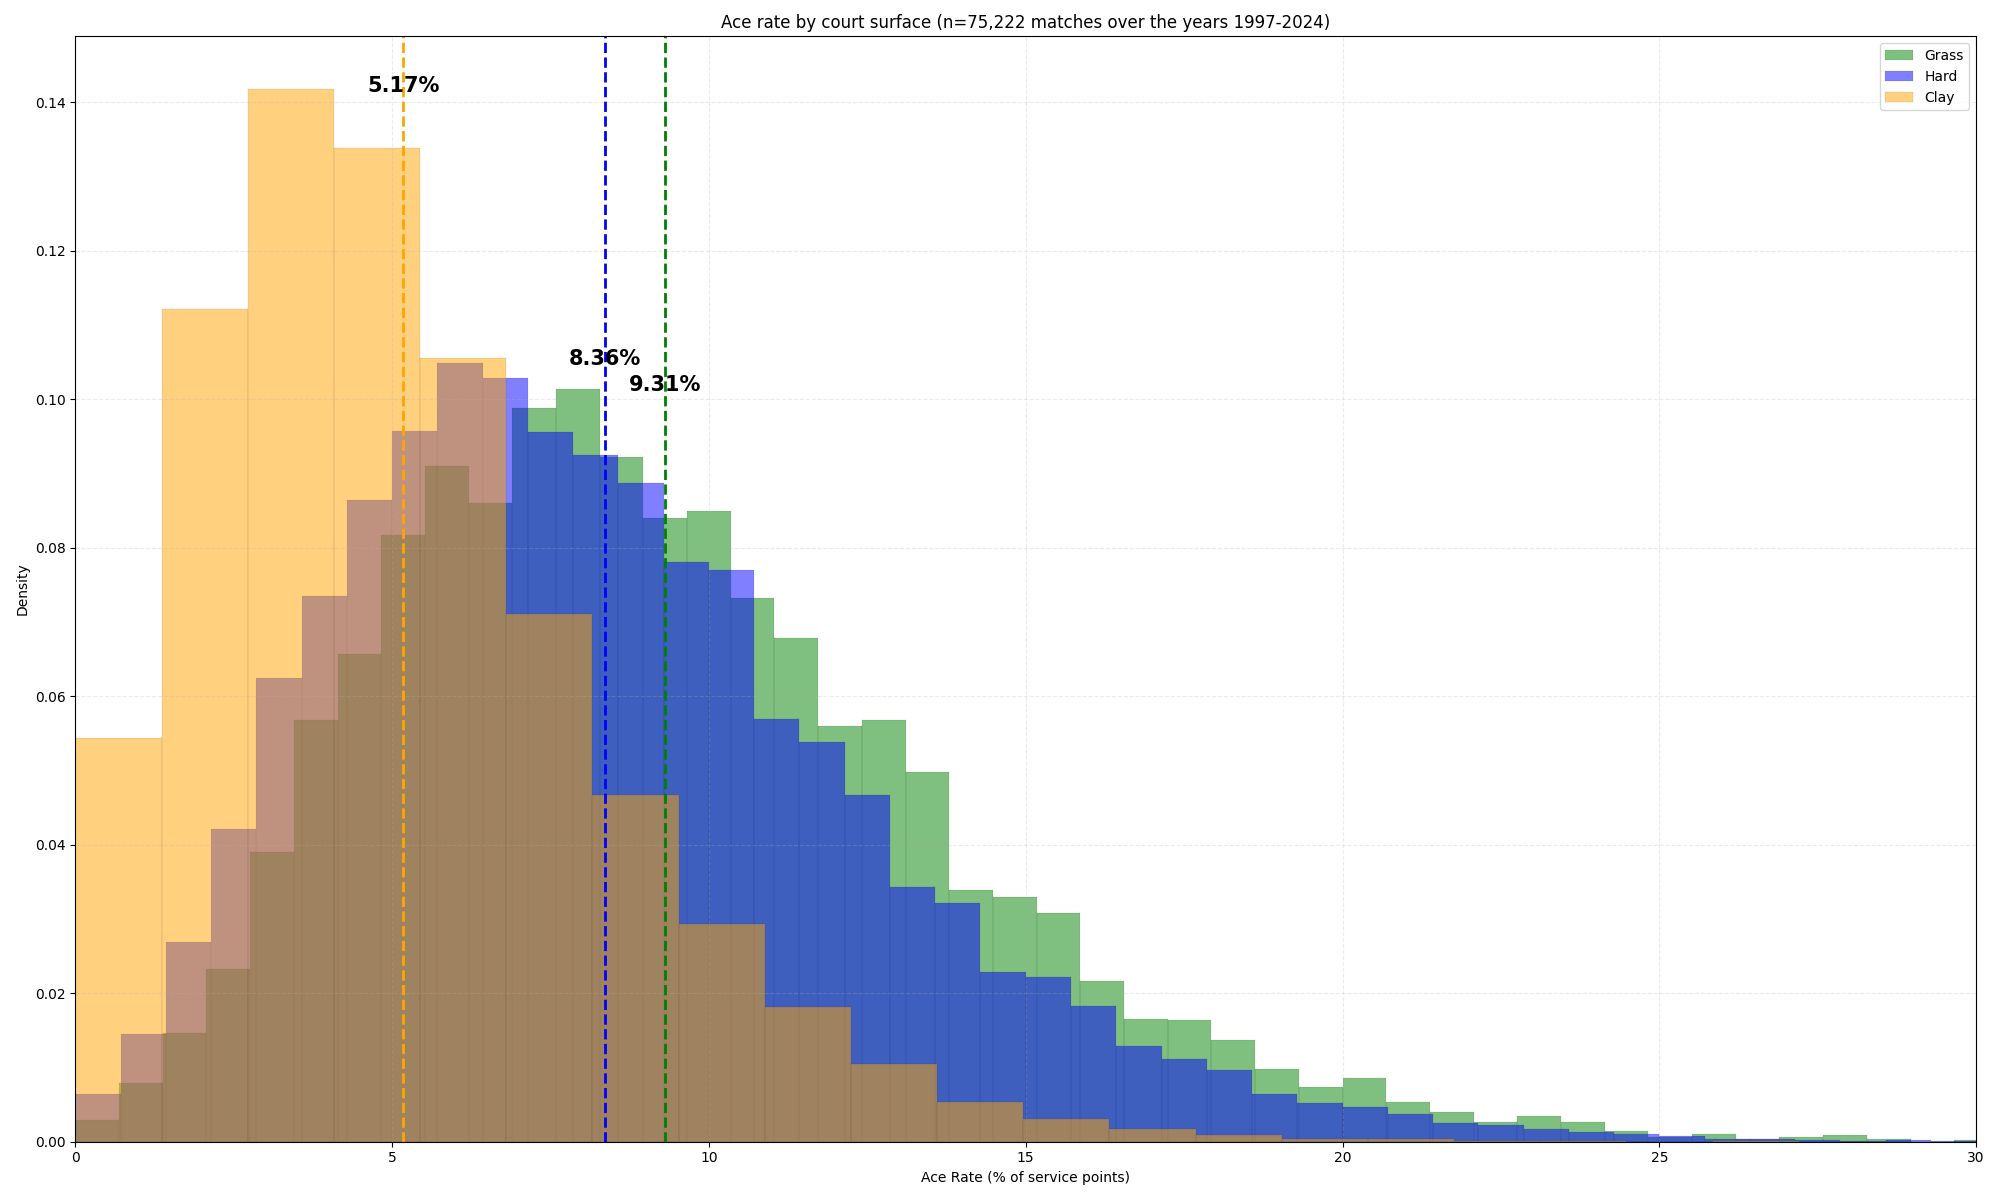
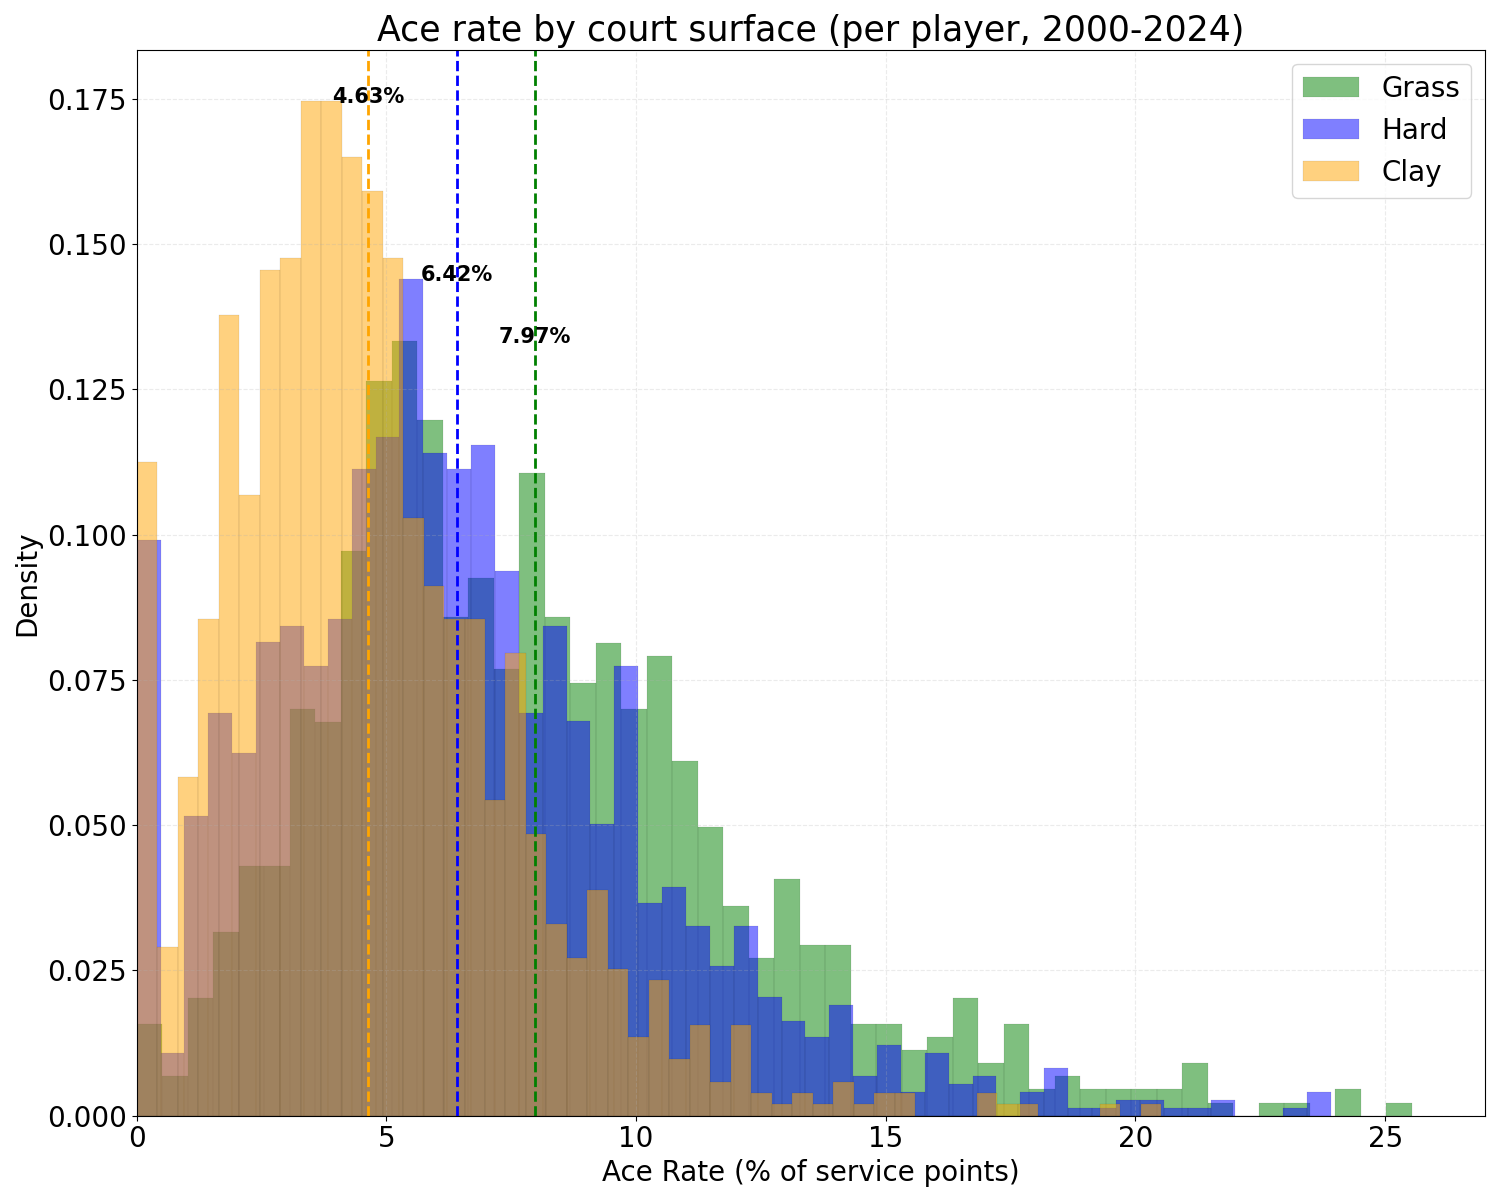
overhauled surface_acerates_analyis rather than match level, summed each players aces and then calculated acerate now independent

diff --git a/code/surface_analysis/surface_acerates_analysis.py b/code/surface_analysis/surface_acerates_analysis.py
@@ -3,21 +3,21 @@
 # Could expand to match time whether it increases but ace rates should be enough evidence
 
 import numpy as np
+import pandas as pd
 import matplotlib.pyplot as plt
 from scipy import stats
 from data_loader.load_data import load_tennis_data
 
 # NULL HYPOTHESIS = There is no difference in ace_rates between the different surfaces
 data = load_tennis_data(
-    path_pattern="../data/tennis_atp_data/unaltered_data/*",
-    regex_pattern=r"/atp_matches_(199[7-9]|20[0-1][0-9]|202[0-4])\.csv",  # 1997-2024
-    usecols=[
-        'tourney_date', 'surface', 'tourney_level', 'w_ace', 'w_svpt',
-        'l_ace', 'l_svpt']
+    path_pattern="../../data/tennis_atp_data/unaltered_data/*",
+    regex_pattern=r"/atp_matches_(20[0-1][0-9]|202[0-4])\.csv",  # 2000-2024
+    usecols=['tourney_date', 'surface', 'tourney_level', 
+             'w_ace', 'w_svpt', 'l_ace', 'l_svpt', 'winner_id', 'loser_id']
 )
 
 # ============================================================================
-# preprocess data
+# preprocess
 # ============================================================================
 
 print(f"\ninitial data size = {len(data)}")
@@ -33,40 +33,44 @@ data = data[(data['w_svpt'] > 0) & (data['l_svpt'] > 0)]
 data = data[data['surface'].isin(['Hard', 'Clay', 'Grass'])]
 print(f"data size after preprocess = {len(data)}")
 
-# combining aces of both the loser and winner, thus checking total ace rate per match
-data['total_aces'] = data['w_ace'] + data['l_ace']
-data['total_svpt'] = data['w_svpt'] + data['l_svpt']
-data['ace_rate'] = (data['total_aces'] / data['total_svpt']) * 100
+winner_df = data[['winner_id', 'surface', 'w_ace', 'w_svpt']].copy()
+winner_df.columns = ['player_id', 'surface', 'aces', 'svpt']
 
-print("\nmatches per surface:")
-for i in ['Grass', 'Hard', 'Clay']:
-    n = len(data[data['surface'] == i])
-    print(f"  {i} = {n}")
+loser_df = data[['loser_id', 'surface', 'l_ace', 'l_svpt']].copy()
+loser_df.columns = ['player_id', 'surface', 'aces', 'svpt']
+
+# canncated winner + loser rows
+df_concateed = pd.concat([winner_df, loser_df], ignore_index=True)
+
+player_surface = (
+    df_concateed
+    .groupby(['player_id', 'surface'])
+    .agg(total_aces=('aces', 'sum'), total_svpt=('svpt', 'sum'))
+    .reset_index()
+)
+player_surface['ace_rate'] = (player_surface['total_aces'] / player_surface['total_svpt']) * 100
 
 # ============================================================================
-# analyzing data
+# analyzing
 # ============================================================================
 
-# split data in to the 3 surfaces
-hard_aces = data[data['surface'] == 'Hard']['ace_rate'].values
-clay_aces = data[data['surface'] == 'Clay']['ace_rate'].values
-grass_aces = data[data['surface'] == 'Grass']['ace_rate'].values
+hard_aces = player_surface[player_surface['surface'] == 'Hard']['ace_rate'].values
+clay_aces = player_surface[player_surface['surface'] == 'Clay']['ace_rate'].values
+grass_aces = player_surface[player_surface['surface'] == 'Grass']['ace_rate'].values
 
-# quick overview of means per surface
-print("\nace rates (mean)")
+print("\nAce rates (mean per player per surface):")
 for surface, data_subset in [('Grass', grass_aces), ('Hard', hard_aces), ('Clay', clay_aces)]:
     print(f"  {surface}: mean = {np.mean(data_subset):.2f}%")
 
-# anova test
-print("\n1. anova test:")
+print("\n1. ANOVA test:")
 f_stat, p_value = stats.f_oneway(hard_aces, clay_aces, grass_aces)
 print(f"F-statistic: {f_stat:.4f}")
-print(f"p-value: {p_value}")
+print(f"p-value: {p_value:.5e}")
 
 if p_value < 0.05:
-    print("REJECT null hypothesis (surface does have significant effect on ace_rates)")
+    print("REJECT null hypothesis (surface has significant effect on ace rates)")
 else:
-    print("FAIL TO REJECT null hypothesis (surface does NOT have significant effect on ace_rates)")
+    print("FAIL TO REJECT null hypothesis (surface does NOT have significant effect)")
 
 # ============================================================================
 # visualisatie
@@ -75,10 +79,10 @@ else:
 colors = {'Grass': 'green', 'Hard': 'blue', 'Clay': 'orange'}
 surfaces = ['Grass', 'Hard', 'Clay']
 
-plt.figure(figsize=(20, 12))
+plt.figure(figsize=(15, 12))
 
 for surface in surfaces:
-    data_per = data[data['surface'] == surface]['ace_rate']
+    data_per = player_surface[player_surface['surface'] == surface]['ace_rate']
 
     plt.hist(
         data_per,
@@ -106,11 +110,13 @@ for surface in surfaces:
 
 # had a really long tail, because of outliers
 # decided to limit the x axis to 0 - 30 percent
-plt.xlim([0, 30])
-plt.xlabel('Ace Rate (% of service points)')
-plt.ylabel('Density')
-plt.title(f'Ace rate by court surface (n={len(data):,} matches over the years 1997-2024)')
-plt.legend()
+plt.xticks(fontsize=20)
+plt.yticks(fontsize=20)
+plt.xlim([0, 27])
+plt.xlabel('Ace Rate (% of service points)', fontsize=20)
+plt.ylabel('Density', fontsize=20)
+plt.title(f'Ace rate by court surface (per player, 2000-2024)', fontsize=25)
+plt.legend(fontsize=20)
 plt.grid(True, alpha=0.25, linestyle='--')
 plt.tight_layout()
 plt.savefig('../../graphs/surface/surfaces_acerates.png')

diff --git a/code/surface_analysis/surface_winrates_analysis.py b/code/surface_analysis/surface_winrates_analysis.py
@@ -8,7 +8,7 @@ def load_data_wr(path):
     data = pd.read_csv(path)
     # this to check only for close matches
     # so i can check the effect of winrate better
-    return data[(data['p2_rank'] - data['p1_rank']).abs() <= 100]
+    return data[(data['p2_rank'] - data['p1_rank']).abs() <= 50]
 
 def split_train_test(data):
     # splitting in chronological order as its a timer series
